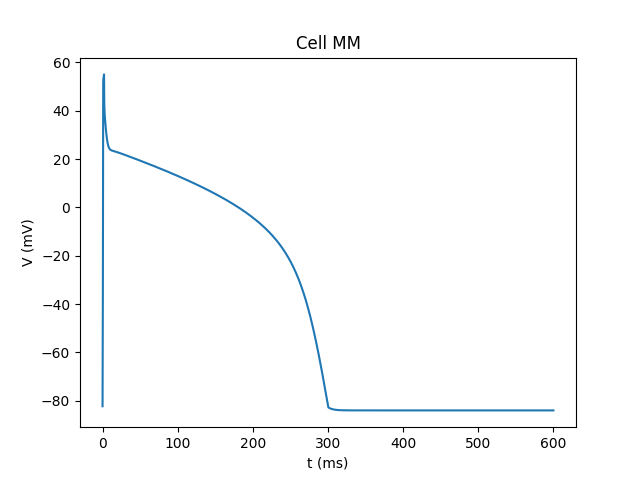
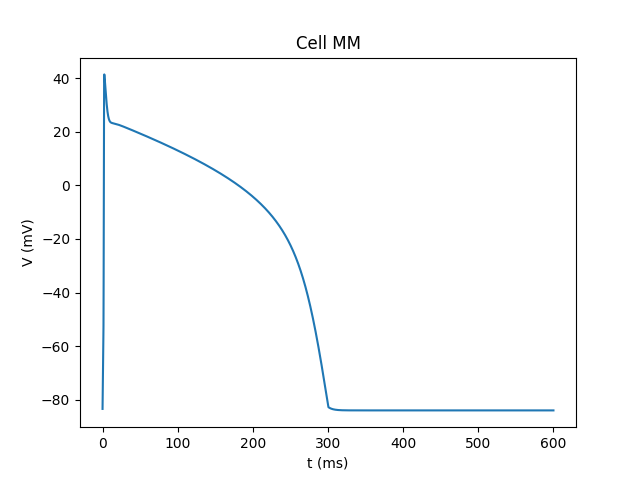
Single Cell adjusts

diff --git a/parameters.h b/parameters.h
@@ -14,7 +14,9 @@ Options for define cell type:
 // #define ENDO
 // #define M
 // #define PB
-#define TNNP
+// #define TNNP
+// #define ADJ
+#define ADJ2
 
 
 /*-----------------------------------------------------
@@ -189,6 +191,76 @@ double u_s = 0.9087;
 double tau_si = 2.8723;
 double tau_winf = 0.07;
 double w_infstar = 0.94;
+#endif
+
+/*-----------------------------------------------------
+ADJUSTED GA TNNP parameters
+83.347566
+-----------------------------------------------------*/
+#ifdef ADJ
+double u_o = 0.922852;
+double u_u = 1.707032;
+double theta_v = 0.107422;
+double theta_w = 0.030273;
+double theta_vminus = 0.344727;
+double theta_o = 0.115234;
+double tau_v1minus = 66.835938;
+double tau_v2minus = 1203.710938;
+double tau_vplus = 1.408203;
+double tau_w1minus = 57.382812;
+double tau_w2minus = 9.296875;
+double k_wminus = 69.902344;
+double u_wminus = 0.058594;
+double tau_wplus = 137.695312;
+double tau_fi = 0.235352;
+double tau_o1 = 363.281250;
+double tau_o2 = 9.238281;
+double tau_so1 = 25.058594;
+double tau_so2 = 0.576953;
+double k_so = 2.170899;
+double u_so = 0.920899;
+double tau_s1 = 2.413086;
+double tau_s2 = 25.195312;
+double k_s = 2.149414;
+double u_s = 0.977540;
+double tau_si = 1.523047;
+double tau_winf = 0.679688;
+double w_infstar = 0.913086;
+#endif
+
+/*-----------------------------------------------------
+ADJUSTED GA TNNP parameters
+62.046869
+-----------------------------------------------------*/
+#ifdef ADJ2
+double u_o = 0.514649;
+double u_u = 1.850586;
+double theta_v = 0.167969;
+double theta_w = 0.032227;
+double theta_vminus = 0.612305;
+double theta_o = 0.486328;
+double tau_v1minus = 63.281250;
+double tau_v2minus = 1221.484375;
+double tau_vplus = 1.551758;
+double tau_w1minus = 60.234375;
+double tau_w2minus = 14.609375;
+double k_wminus = 60.976562;
+double u_wminus = 0.246094;
+double tau_wplus = 148.828125;
+double tau_fi = 0.332031;
+double tau_o1 = 417.968750;
+double tau_o2 = 18.906250;
+double tau_so1 = 28.164062;
+double tau_so2 = 0.688281;
+double k_so = 2.488282;
+double u_so = 0.945313;
+double tau_s1 = 2.403321;
+double tau_s2 = 19.589844;
+double k_s = 2.499024;
+double u_s = 0.981446;
+double tau_si = 1.970313;
+double tau_winf = 0.444336;
+double w_infstar = 0.297852;
 #endif
 
 #endif // PARAMETERS_H

diff --git a/single_cell_adj.c b/single_cell_adj.c
@@ -26,9 +26,9 @@ double T = 600.0;       // Simulation time -> ms
 /*-----------------------------------------------------
 Stimulation parameters
 -----------------------------------------------------*/
-double stim_strength = 1.0;          // Stimulation strength -> uA/cm^2
+double stim_strength = 0.325;          // Stimulation strength -> uA/cm^2
 
-double t_s1_begin = 0.0;            // Stimulation start time -> ms
+double t_s1_begin = 50.0;            // Stimulation start time -> ms
 double stim_duration = 1.0;         // Stimulation duration -> ms
 
 
@@ -87,7 +87,7 @@ int main(int argc, char *argv[])
 
     // Open the file to write for complete gif
     char fname_complete[100] = "./simulation-files/mm-";
-    strcat(fname_complete, "cell");
+    strcat(fname_complete, "cell-adj");
     strcat(fname_complete, "-");
     strcat(fname_complete, s_dt);
     strcat(fname_complete, ".txt");
@@ -96,7 +96,7 @@ int main(int argc, char *argv[])
     
     // Open the file to write for times
     char fname_times[100] = "./simulation-files/sim-times-";
-    strcat(fname_times, "cell");
+    strcat(fname_times, "cell-adj");
     strcat(fname_times, "-");
     strcat(fname_times, s_dt);
     strcat(fname_times, ".txt");

diff --git a/plot_cell.py b/plot_cell.py
@@ -9,12 +9,12 @@ dt = sys.argv[1]
 
 # Read data from files
 t = []
-timesfile = f'./simulation-files/sim-times-cell-{dt}.txt'
+timesfile = f'./simulation-files/sim-times-cell-adj-{dt}.txt'
 with open(timesfile, 'r') as f:
     for line in f:
         t.append(float(line))
 
-filename = f'./simulation-files/mm-cell-{dt}.txt'
+filename = f'./simulation-files/mm-cell-adj-{dt}.txt'
 U = []
 with open(filename, 'r') as f:
     for line in f:
@@ -22,11 +22,11 @@ with open(filename, 'r') as f:
 
 # Make plot
 plt.plot(t, U)
-plt.title(f'Cell MM')
+plt.title(f'Cell MM Adj')
 plt.xlabel('t (ms)')
 plt.ylabel('V (mV)')
 
-plt.savefig('cell.png')
+plt.savefig('cell-adj.png')
 plt.close()
 
 

diff --git a/cable_eq.c b/cable_eq.c
@@ -35,7 +35,7 @@ double T = 500.0;       // Simulation time -> ms
 /*-----------------------------------------------------
 Stimulation parameters
 -----------------------------------------------------*/
-double stim_strength = 38.0;          // Stimulation strength -> uA/cm^2
+double stim_strength = 1.0;          // Stimulation strength -> uA/cm^2
 
 double t_s1_begin = 0.0;            // Stimulation start time -> ms
 double stim_duration = 2.0;         // Stimulation duration -> ms

diff --git a/monodomain.c b/monodomain.c
@@ -37,7 +37,7 @@ double T = 400.0;       // Simulation time -> ms
 /*-----------------------------------------------------
 Stimulation parameters
 -----------------------------------------------------*/
-double stim_strength = 38;          // Stimulation strength -> uA/cm^2 
+double stim_strength = 1.0;          // Stimulation strength -> uA/cm^2 
 
 double t_s1_begin = 0.0;            // Stimulation start time -> ms
 double stim_duration = 2.0;         // Stimulation duration -> ms
